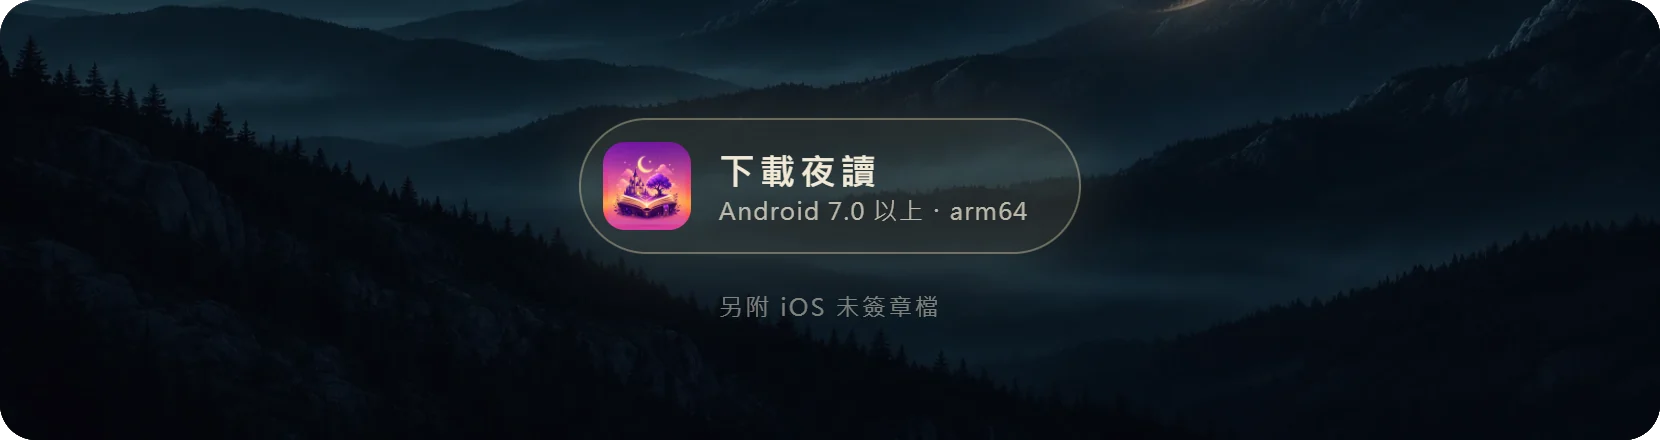
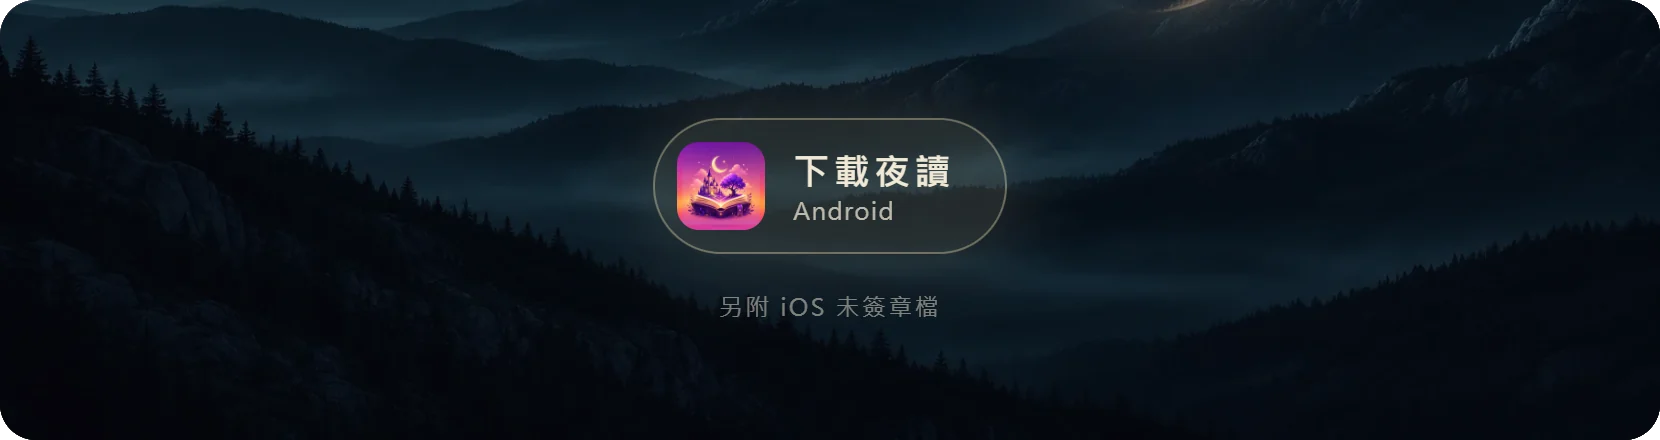
docs(website): 下載處拿掉「Android 7.0 以上」，只寫 Android
使用者要拿掉。網站查不到最新版本時顯示「Android」（和查到之前一樣）；
README 下載卡與替代文字只寫「下載夜讀」「Android」。

驗證：下載卡重拍後看過。

Changed region(s): [[0.338, 0.2659, 0.6759, 0.5909]]

diff --git a/tool/readme_art/card.html b/tool/readme_art/card.html
@@ -129,7 +129,7 @@ if (c.type === 'hero') {
 } else if (c.type === 'download') {
   root.innerHTML = `<div class="card dl">${sky(1, 0.5, [300, -330])}
     <div class="in" style="display:flex;flex-direction:column;align-items:center">
-      <div class="btn"><img src="${W}icon.webp"><span><b>下載夜讀</b><small>Android 7.0 以上・arm64</small></span></div>
+      <div class="btn"><img src="${W}icon.webp"><span><b>下載夜讀</b><small>Android</small></span></div>
       <p class="fine">另附 iOS 未簽章檔</p>
     </div>
   </div>`;

diff --git a/website/script.js b/website/script.js
@@ -49,7 +49,7 @@ sky();
     const text = `Android・${String(j.tag_name).replace(/^v/, '')}` + (apk ? `・${(apk.size / 1048576).toFixed(0)} MB` : '');
     metas.forEach((m) => { m.textContent = text; });
   } catch (_) {
-    metas.forEach((m) => { m.textContent = 'Android 7.0 以上'; });
+    metas.forEach((m) => { m.textContent = 'Android'; });
   }
 })();
 

diff --git a/README.md b/README.md
@@ -20,7 +20,7 @@
 
 <p align="center"><img src="docs/readme/sources.webp" width="100%" alt="書源校驗：批次找出失效的書源，也能逐步除錯。夜讀不附書源，網路上搜「Legado 書源」，在書源網站點「一鍵導入」就會打開夜讀"></p>
 
-<p align="center"><a href="https://github.com/bennytsai1234/Night-Reader/releases/latest"><img src="docs/readme/download.webp" width="100%" alt="下載夜讀，Android 7.0 以上、arm64"></a></p>
+<p align="center"><a href="https://github.com/bennytsai1234/Night-Reader/releases/latest"><img src="docs/readme/download.webp" width="100%" alt="下載夜讀"></a></p>
 
 <details>
 <summary><b>iOS 怎麼裝</b></summary>
